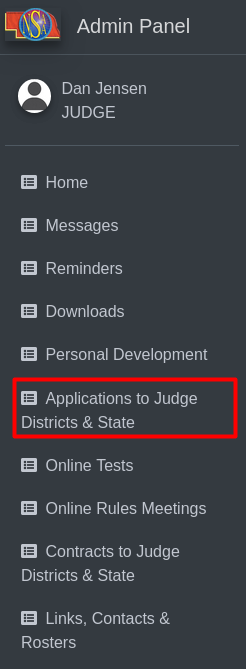
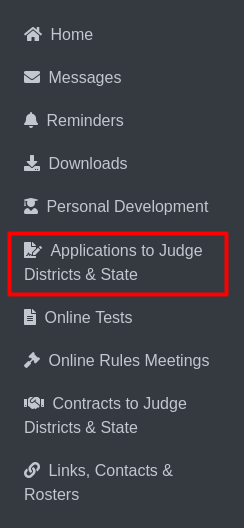
Updated ( apps,home,messages,rosters,onlinerules)

Changed region(s): [[0.0287, 0.2121, 0.9754, 0.9697], [0.0, 0.0, 0.6025, 0.1818], [0.5738, 0.0303, 0.7746, 0.0606]]

diff --git a/source/pages/messages.rst b/source/pages/messages.rst
@@ -6,9 +6,9 @@ Messages
 .. image:: ../images/Admin-Panel.png
   
 |
-| **Messages(1)**
+| **Messages**
 
-|   The labeled item **Messages (No. 1)** Clicking this option redirects the user to the messages page, where they can view messages for play production or speech.
+|   The labeled item **Messages** Clicking this option redirects the user to the messages page, where they can view messages for play production or speech.
 
 .. thumbnail:: ../images/msg-pp.png
   :title: Play Production Messages
@@ -18,10 +18,13 @@ Messages
 
 **Play Production Tab (No. 1):**
 This tab is selected to display messages related to Play Production.
+
 **Speech Tab (No. 2):**
 Clicking this tab will switch to displaying messages related to Speech.
+
 **Message Count (No. 3):**
 Shows the number of messages received for Play Production or Speech.
+
 **Message Details Toggle (No. 4):**
 Clicking the + icon will expand or collapse the details of a specific message.
 

diff --git a/source/pages/links-contacts-and-rosters.rst b/source/pages/links-contacts-and-rosters.rst
@@ -1,6 +1,15 @@
 Links, Contacts & Rosters
 ===========================
 
+**Admin Panel Sidebar:**
+
+.. image:: ../images/roster-sidebar.png
+  
+**Links, Contacts & Rosters**
+
+The labeled item **Links, Contacts & Rosters** Clicking this option redirects the user to the Links, Contacts & Rosters page, where they can view Links, Contacts & Rosters for play production or speech.
+
+
 .. thumbnail:: ../images/link_roster.png
   :title: Links, Contacts & Rosters
   
@@ -18,6 +27,7 @@ Selecting a roster will take you to the roster details page.
 
 .. thumbnail:: ../images/roster.png
   :title: Rosters For Speech
+
 This is roster details for Speech.
 
 **Export Button (No. 1):**

diff --git a/source/pages/home.rst b/source/pages/home.rst
@@ -1,9 +1,11 @@
 Home
 ===================
 
+**Admin Panel Sidebar:**
+
 .. image:: ../images/home.png
  
-This is the sidebar for hompage(1).By clicking home will take you to the homepage.
+This is the sidebar for **Home**.By clicking **Home** will take you to the homepage.
 
 .. thumbnail:: ../images/home_page.png
   :title: Judges Homepage.

diff --git a/source/pages/online-rules-meeting.rst b/source/pages/online-rules-meeting.rst
@@ -1,6 +1,8 @@
 Online Rules Meeting
 ==========================
 
+**Admin Panel Sidebar:**
+
 .. image:: ../images/onlinerules.png
 
 By clicking **"Online Rules Meetings"** will take you to the Online Rules Meetings page.

diff --git a/source/pages/application-to-judge-district-and-state.rst b/source/pages/application-to-judge-district-and-state.rst
@@ -1,6 +1,7 @@
 Aplication to Judge Districts & State
 ======================================
 
+**Admin Panel Sidebar:**
 
 .. image:: ../images/application_to_judges.png
   
